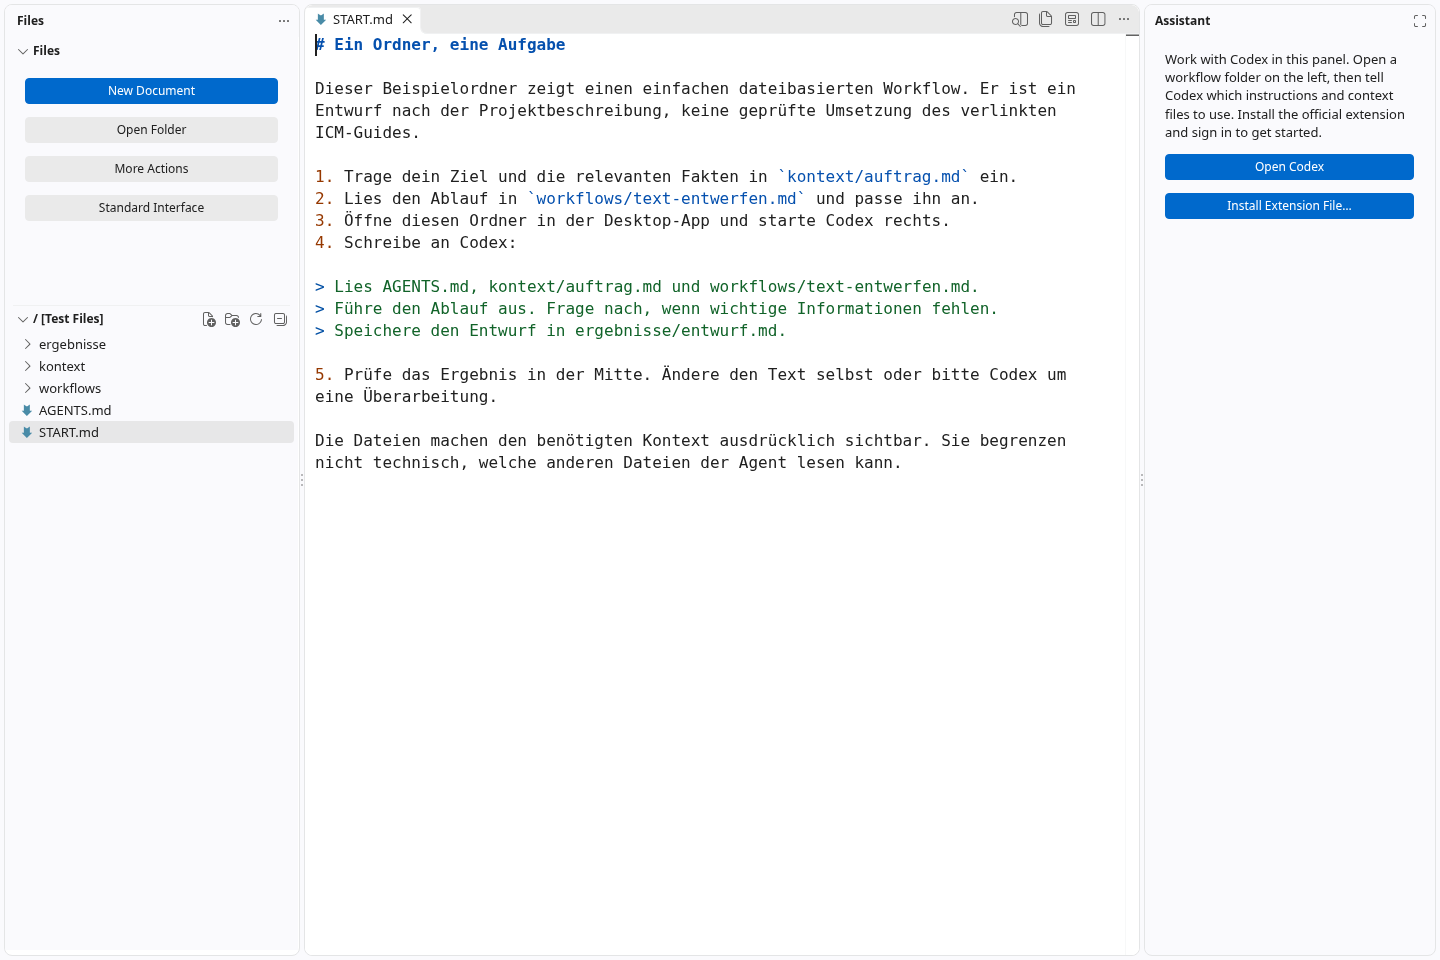
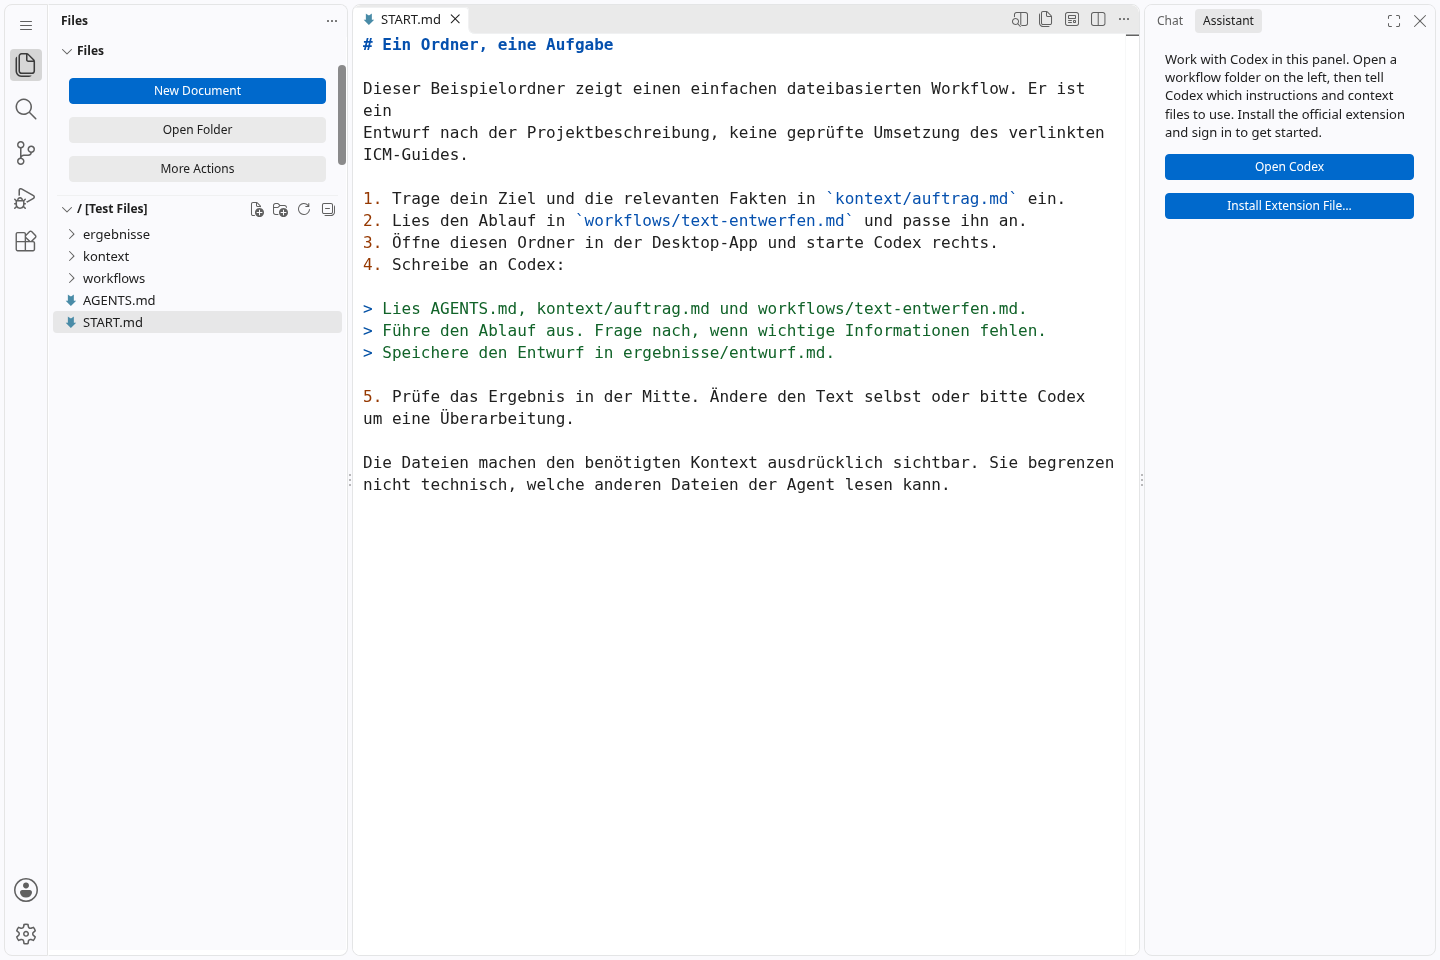
Open simple workspace by default and enable Open VSX extensions

diff --git a/src/vs/workbench/contrib/simpleUI/browser/simpleUI.contribution.ts b/src/vs/workbench/contrib/simpleUI/browser/simpleUI.contribution.ts
@@ -47,7 +47,7 @@ Registry.as<IConfigurationRegistry>(ConfigurationExtensions.Configuration).regis
 	type: 'object',
 	properties: {
 		[SIMPLE_UI_ENABLED]: {
-			type: 'boolean', default: false, scope: ConfigurationScope.APPLICATION,
+			type: 'boolean', default: true, scope: ConfigurationScope.APPLICATION,
 			description: localize('simpleUI.enabled.description', "Use a simplified workspace for documents, files, and an AI assistant. Turn off to restore your previous interface."),
 		},
 		[SIMPLE_UI_AGENT]: {
@@ -154,7 +154,7 @@ class SimpleUIContribution extends Disposable {
 	private updateWelcome(): void {
 		this.welcome.clear();
 		// Welcome content uses the linked-text parser, not a full Markdown renderer.
-		const text = (value: string) => value.replace(/[\r\n]+/g, ' ').replace(/\[/g, '［').replace(/\]/g, '］');
+		const text = (value: string) => value.replace(/[\r\n]+/g, ' ').replace(/\[/g, '\uFF3B').replace(/\]/g, '\uFF3D');
 		const link = (label: SimpleUILabel, command: string) => {
 			const caption = text(simpleUILabel(this.configurationService, label));
 			// The welcome button also uses its tooltip as its accessible name.
@@ -166,7 +166,7 @@ class SimpleUIContribution extends Disposable {
 				link('newDocument', 'workbench.simpleUI.newDocument'),
 				link('openFolder', 'workbench.action.files.openFolder'),
 				link('more', 'workbench.simpleUI.more'),
-				link('standardUI', 'workbench.simpleUI.toggle'),
+				link('standardUI', 'workbench.simpleUI.standard'),
 			].join('\n'),
 			renderSecondaryButtons: true,
 		}));
@@ -307,14 +307,45 @@ registerAction2(class extends Action2 {
 registerAction2(class extends Action2 {
 	constructor() {
 		super({
+			id: 'workbench.simpleUI.simple', title: localize2('simpleUI.simple.action', "Simple Workspace"),
+			f1: true, icon: Codicon.layout, precondition: enabled.negate(),
+			menu: [
+				{ id: MenuId.TitleBar, when: enabled.negate(), group: 'navigation', order: 0 },
+				{ id: MenuId.GlobalActivity, when: enabled.negate(), group: '2_configuration', order: 0 },
+			],
+		});
+	}
+	async run(accessor: ServicesAccessor): Promise<void> {
+		await accessor.get(IConfigurationService).updateValue(SIMPLE_UI_ENABLED, true, ConfigurationTarget.USER);
+	}
+});
+
+registerAction2(class extends Action2 {
+	constructor() {
+		super({
 			id: 'workbench.simpleUI.toggle', title: localize2('simpleUI.toggle', "Toggle Simple Workspace"),
 			f1: true, icon: Codicon.layout, toggled: enabled,
-			menu: [{ id: MenuId.TitleBar, group: 'navigation', order: 0 }],
 		});
 	}
 	async run(accessor: ServicesAccessor): Promise<void> {
 		const configuration = accessor.get(IConfigurationService);
 		await configuration.updateValue(SIMPLE_UI_ENABLED, !configuration.getValue<boolean>(SIMPLE_UI_ENABLED), ConfigurationTarget.USER);
+	}
+});
+
+registerAction2(class extends Action2 {
+	constructor() {
+		super({
+			id: 'workbench.simpleUI.standard', title: localize2('simpleUI.standard.action', "Standard Interface"),
+			f1: true, icon: Codicon.layout, precondition: enabled,
+			menu: [
+				{ id: MenuId.TitleBar, when: enabled, group: 'navigation', order: 0 },
+				{ id: MenuId.GlobalActivity, when: enabled, group: '2_configuration', order: 0 },
+			],
+		});
+	}
+	async run(accessor: ServicesAccessor): Promise<void> {
+		await accessor.get(IConfigurationService).updateValue(SIMPLE_UI_ENABLED, false, ConfigurationTarget.USER);
 	}
 });
 
@@ -370,8 +401,8 @@ registerAction2(class extends Action2 {
 		}
 		await configuration.updateValue(SIMPLE_UI_AGENT, selected.id, ConfigurationTarget.USER);
 		if (!selected.installed) {
-			notifications.info(localize('simpleUI.installAgent', "Install the official {0} extension, then choose it here. You can install a publisher-provided VSIX from the Extensions menu.", selected.label));
-			await commands.executeCommand('workbench.extensions.search', `@id:${selected.id}`);
+			notifications.info(localize('simpleUI.installAgent', "Install the official {0} extension from Extensions, then choose it here. You can also install a publisher-provided VSIX file.", selected.label));
+			await commands.executeCommand('workbench.extensions.search', selected.label);
 		} else {
 			await commands.executeCommand('workbench.simpleUI.openAgent');
 		}
@@ -392,9 +423,9 @@ registerAction2(class extends Action2 {
 			['textEditor', 'workbench.simpleUI.textEditor'],
 			['chooseAgent', 'workbench.simpleUI.chooseAgent'],
 			['installExtension', 'workbench.extensions.action.installVSIX'],
-			['extensions', 'workbench.extensions.action.showInstalledExtensions'],
+			['extensions', 'workbench.view.extensions'],
 			['settings', 'workbench.action.openSettings'],
-			['standardUI', 'workbench.simpleUI.toggle'],
+			['standardUI', 'workbench.simpleUI.standard'],
 		];
 		const selected = await accessor.get(IQuickInputService).pick(actions.map(([label, command]) => ({ label: simpleUILabel(configuration, label), detail: simpleUIHint(label), command })), {
 			placeHolder: simpleUILabel(configuration, 'more'),

diff --git a/src/vs/workbench/contrib/simpleUI/browser/simpleUILabels.ts b/src/vs/workbench/contrib/simpleUI/browser/simpleUILabels.ts
@@ -45,9 +45,9 @@ const hints: Partial<Record<SimpleUILabel, string>> = {
 	preview: localize('simpleUI.hint.preview', "See formatted Markdown beside your text. The preview updates while you write."),
 	visualEditor: localize('simpleUI.hint.visualEditor', "Edit a saved Markdown document with formatting controls."),
 	textEditor: localize('simpleUI.hint.textEditor', "Edit the document as plain text, including its Markdown formatting marks."),
-	chooseAgent: localize('simpleUI.hint.chooseAgent', "Open the installed Codex extension in the right panel. Sign in inside the extension."),
+	chooseAgent: localize('simpleUI.hint.chooseAgent', "Find and install Codex from Extensions, or open it in the right panel after installation. Sign in inside the extension."),
 	installExtension: localize('simpleUI.hint.installExtension', "Select an official extension file (.vsix) downloaded from its publisher."),
-	extensions: localize('simpleUI.hint.extensions', "Manage installed extensions."),
+	extensions: localize('simpleUI.hint.extensions', "Browse and install extensions from Open VSX, or manage installed extensions."),
 	settings: localize('simpleUI.hint.settings', "Change appearance, labels, and other workspace preferences."),
 };
 

diff --git a/src/vs/workbench/contrib/simpleUI/test/common/simpleUI.test.ts b/src/vs/workbench/contrib/simpleUI/test/common/simpleUI.test.ts
@@ -35,13 +35,15 @@ suite('Simple UI settings', () => {
 	test('restores temporary settings without losing user edits made while enabled', async () => {
 		const configuration = new ConfigurationService();
 		configuration.memory.set('editor.fontSize', 18);
+		configuration.memory.set('workbench.activityBar.location', 'hidden');
 		const settings = new SimpleUISettings(configuration);
 		await settings.enable();
 		assert.strictEqual(configuration.memory.get('editor.wordWrap'), 'on');
+		assert.strictEqual(configuration.memory.get('workbench.activityBar.location'), 'default');
 		configuration.user.set('editor.wordWrap', 'bounded');
 		await settings.disable();
 		assert.deepStrictEqual({ memory: [...configuration.memory], user: [...configuration.user] }, {
-			memory: [['editor.fontSize', 18]], user: [['editor.fontSize', 13], ['editor.wordWrap', 'bounded']],
+			memory: [['editor.fontSize', 18], ['workbench.activityBar.location', 'hidden']], user: [['editor.fontSize', 13], ['editor.wordWrap', 'bounded']],
 		});
 	});
 

diff --git a/build/hygiene.ts b/build/hygiene.ts
@@ -92,8 +92,9 @@ export function hygiene(some: NodeJS.ReadWriteStream | string[] | undefined, run
 	const productJson = es.through(function (file: VinylFile) {
 		const product = JSON.parse(file.contents!.toString('utf8'));
 
-		if (product.extensionsGallery) {
-			console.error(`product.json: Contains 'extensionsGallery'`);
+		// This Code - OSS fork uses the public Open VSX gallery. Keep other galleries out of product.json.
+		if (product.extensionsGallery && product.extensionsGallery.serviceUrl !== 'https://open-vsx.org/vscode/gallery') {
+			console.error(`product.json: Contains an unsupported 'extensionsGallery'`);
 			errorCount++;
 		}
 

diff --git a/src/vs/workbench/contrib/simpleUI/common/simpleUI.ts b/src/vs/workbench/contrib/simpleUI/common/simpleUI.ts
@@ -12,7 +12,7 @@ export const SIMPLE_UI_AGENT = 'workbench.simpleUI.agent';
 type SettingValue = string | number | boolean;
 
 const settings: Readonly<Record<string, SettingValue>> = {
-	'workbench.activityBar.location': 'hidden',
+	'workbench.activityBar.location': 'default',
 	'workbench.statusBar.visible': false,
 	'workbench.sideBar.location': 'left',
 	'workbench.layoutControl.enabled': false,

diff --git a/README.md b/README.md
@@ -9,13 +9,12 @@ Kontext in Ordnern und Markdown-Dateien.
 
 ## Was dieser erste Stand kann
 
-- Umschalten zwischen vollständiger Oberfläche und **Simple Workspace**.
+- **Simple Workspace** öffnet sich bei neuen Profilen automatisch. Über **Standard Interface** links, oben oder im Zahnradmenü wechselst du zurück; **Simple Workspace** bringt dich wieder in die einfache Ansicht.
 - Dateiverwaltung mit gut sichtbaren Aktionen und erklärenden Tooltips.
 - Texte und Markdown direkt bearbeiten; Live Preview und visuellen Markdown-Editor aufrufen.
-- Im einfachen Modus: keine Aktivitätsleiste, Statusleiste, Minimap, Zeilennummern oder
-  automatische Code-Vorschläge. Das untere Panel wird geschlossen; Outline und Timeline werden ausgeblendet.
+- Die Activity Bar links bleibt sichtbar: Explorer, Suche, Quellcodeverwaltung, Erweiterungen und Ansichten installierter Erweiterungen sind direkt erreichbar. Statusleiste, Minimap, Zeilennummern und automatische Code-Vorschläge werden ausgeblendet. Das untere Panel wird geschlossen; Outline und Timeline werden ausgeblendet.
 - Eine installierte offizielle Codex-Extension (`openai.chatgpt`) in das rechte Panel verschieben.
-  Ohne Extension erscheint eine Einführung mit Installation aus einer VSIX-Datei.
+  Ohne Extension erscheint eine Einführung mit Katalogsuche und Installation aus einer VSIX-Datei.
 - Beim Ausschalten die vorherige Anordnung wiederherstellen. Persönliche Editor-Einstellungen
   werden dabei nicht überschrieben.
 
@@ -30,15 +29,15 @@ ein aktueller Chrome/Chromium oder Edge und einige GB freier Speicher.
 ```sh
 git clone --depth 1 --branch main https://github.com/marmor69/vscode.git simple-workspace
 cd simple-workspace
-node scripts/simple-workspace.ts --setup
-node scripts/simple-workspace.ts --web
+node scripts/simple-workspace.mts --setup
+node scripts/simple-workspace.mts --web
 ```
 
 1. Öffne **http://localhost:8080**.
-2. Drücke **F1**, suche **Toggle Simple Workspace** und bestätige mit Enter.
-3. Öffne `START.md` links. Der mitgelieferte Beispielordner erklärt einen kleinen Workflow.
-4. Bearbeite einen Text; öffne **More Actions → Live Preview** für die Markdown-Vorschau.
-5. **Standard Interface** stellt die volle Oberfläche wieder her.
+2. Die einfache Ansicht erscheint automatisch. Öffne `START.md` links. Der mitgelieferte Beispielordner erklärt einen kleinen Workflow.
+3. Bearbeite einen Text; öffne **More Actions → Live Preview** für die Markdown-Vorschau.
+4. Über das Erweiterungssymbol links kannst du den Open-VSX-Katalog durchsuchen.
+5. **Standard Interface** links oder im Zahnradmenü stellt die volle Oberfläche wieder her.
 
 Das Setup installiert festgeschriebene JavaScript-Abhängigkeiten und baut die Web-Oberfläche
 samt den für diese Demo benötigten Erweiterungen. Es installiert weder Electron noch native Module.
@@ -66,19 +65,12 @@ Unter Windows lautet der letzte Aufruf `scripts\code.bat` mit denselben Argument
 Der erste Start lädt zusätzlich Electron und eingebaute Erweiterungen.
 Verwende für diesen Weg **nicht** die Installation mit `--ignore-scripts` aus dem Web-Setup.
 
-1. Aktiviere **Toggle Simple Workspace** über F1 oder setze
-   **Workbench › Simple UI: Enabled** in den Einstellungen.
-2. Besorge die offizielle Codex-VSIX über einen vom Herausgeber unterstützten Installationsweg;
-   siehe [Codex IDE-Dokumentation](https://developers.openai.com/codex/ide/).
-3. Wähle rechts **Install Extension File…**, installiere die Datei und lade bei Bedarf das Fenster neu.
-4. **Open Codex → Codex** öffnet die installierte Extension rechts. Melde dich dort an.
-5. Kopiere `examples/icm-starter` in deinen eigenen Arbeitsordner, öffne ihn über **Open Folder**
-   und folge `START.md`.
+1. Die einfache Ansicht ist beim ersten Start aktiv. Über **Standard Interface** im Zahnradmenü oder links kannst du jederzeit zur normalen Oberfläche wechseln.
+2. Öffne **Extensions** in der Activity Bar links und suche nach **Codex**. Prüfe den Herausgeber **OpenAI** und die Kennung `openai.chatgpt`, bevor du installierst.
+3. **Open Codex → Codex** öffnet die installierte Extension rechts. Melde dich dort an.
+4. Kopiere `examples/icm-starter` in deinen eigenen Arbeitsordner, öffne ihn über **Open Folder** und folge `START.md`.
 
-Code – OSS hat hier keine konfigurierte Extension-Galerie. Die offizielle Extension wird weder
-mitgeliefert noch durch einen eigenen Agenten ersetzt. Installation, Anmeldung und tatsächliche
-Codex-Ausführung im Desktop-Fork müssen noch auf den Zielsystemen überprüft werden.
-Die Extension bestimmt ihre eigenen Berechtigungen, Anmeldung und Kontovoraussetzungen.
+Der Fork nutzt [Open VSX](https://open-vsx.org/) als Erweiterungskatalog. Das ist **nicht** der Microsoft Visual Studio Marketplace; manche dort gelisteten Erweiterungen fehlen auf Open VSX. Die offizielle Codex-Erweiterung ist auf Open VSX unter `openai.chatgpt` gelistet. Falls eine Erweiterung dort fehlt, installiere eine vom Herausgeber bereitgestellte `.vsix` über **Install Extension File…**. Siehe auch die [Codex IDE-Dokumentation](https://developers.openai.com/codex/ide/). Die Extension wird nicht mitgeliefert. Anmeldung und tatsächliche Codex-Ausführung im Desktop-Fork müssen noch auf den Zielsystemen überprüft werden.
 
 ## Beschriftungen anpassen
 
@@ -119,7 +111,7 @@ Die Ordnerstruktur ist eine Arbeitskonvention, keine technische Einschränkung d
 
 Die Änderungen liegen überwiegend in einer eigenen
 [Workbench-Contribution](src/vs/workbench/contrib/simpleUI/README.md).
-Dazu kommen ein Import, ein kleiner Explorer-Titel-Hook und die Registrierung für Übersetzungen.
+Dazu kommen ein Import, ein kleiner Explorer-Titel-Hook, die Registrierung für Übersetzungen und die Open-VSX-Konfiguration in `product.json`. Der Web-Teststarter übernimmt diese Konfiguration in die lokale, ignorierte `product.overrides.json`.
 Editor, Dateiverwaltung, Markdown-Erweiterung und Extension-Host bleiben Upstream-Komponenten.
 Das hält den Fork klein und erleichtert die Übernahme neuer Upstream-Stände.
 
@@ -127,7 +119,8 @@ Das hält den Fork klein und erleichtert die Übernahme neuer Upstream-Stände.
 
 - Browser-Setup vollständig ausgeführt; Client-Build, TypeScript-Prüfung und gezieltes ESLint bestanden.
 - Vier Regressionstests zur Wiederherstellung der Einstellungen bestanden.
-- Dateibaum, Markdown-Textansicht, Neuladen im einfachen Modus und Rückkehr zur vollständigen Oberfläche im Chromium-Browser geprüft.
+- Automatischen Start, sichtbare Activity Bar, Dateibaum, Markdown-Textansicht, Neuladen und Umschalten im Chromium-Browser geprüft.
+- Open-VSX-Katalog und die Suche nach der Codex-Erweiterung von OpenAI im Browser geprüft.
 - Tooltips, neue Markdown-Dokumente und Texteingabe geprüft; beim Moduswechsel bleibt der Text erhalten.
 - Die Markdown-Vorschau wird geöffnet, ihr Inhalt konnte in der Cloud nicht geprüft werden:
   Der dortige Browser verweigert die Service-Worker-Registrierung der eingebauten Webview.

diff --git a/src/vs/workbench/contrib/simpleUI/README.md b/src/vs/workbench/contrib/simpleUI/README.md
@@ -1,8 +1,7 @@
 # Simple workspace contribution
 
 A reversible presentation layer for a document-first Code – OSS fork. Enable it with
-`workbench.simpleUI.enabled` or `workbench.simpleUI.toggle`. It defaults to off so an
-existing user's first launch retains their interface.
+`workbench.simpleUI.enabled` or `workbench.simpleUI.toggle`. It defaults to on for a new profile. A user setting of false still wins.
 
 ## Integration boundary
 
@@ -18,7 +17,7 @@ existing user's first launch retains their interface.
 The contribution uses existing layout, view, editor, configuration and extension services.
 It does not remove developer infrastructure or patch third-party extensions. Codex is
 identified by the publisher extension ID `openai.chatgpt`; its registered view container
-is moved into the auxiliary sidebar. Missing Codex gets a welcome view and VSIX install action.
+is moved into the auxiliary sidebar. Missing Codex gets a welcome view, an Open VSX catalog search, and a VSIX install action.
 
 Layout state is stored under the contribution's own workspace key
 `workbench.simpleUI.layout.v1` and survives window reloads. On leaving the mode, original
@@ -26,8 +25,7 @@ container locations, visible containers, panels and hidden Explorer views are re
 Editor preferences use a temporary memory layer. The setting itself is application scoped.
 
 Markdown preview and the visual editor reuse the built-in Markdown extension. The visual
-editor works with saved Markdown files. The standard interface remains available from
-Files and from the title bar / command palette. Welcome buttons use native hover behavior;
+editor works with saved Markdown files. The standard interface remains available from Files, the title bar, the Activity Bar settings menu, and the command palette. Welcome buttons use native hover behavior;
 the action picker also exposes explanations to keyboard users.
 
 ## Verification
@@ -45,7 +43,7 @@ For changes to service interactions, also run `npm run typecheck-client`.
 Manual acceptance: fresh profile; enable; open folder; create/edit/save Markdown; preview;
 hover explanations; reload while enabled; restore standard mode; re-enable; verify
 existing settings survive. Test desktop Codex installation, sign-in and a real task separately.
-Browser smoke checks cannot establish desktop extension compatibility.
+Browser smoke checks cannot establish desktop extension compatibility. The fork configures Open VSX in `product.json`; the browser demo copies that gallery setting into ignored `product.overrides.json`. Microsoft Visual Studio Marketplace is not bundled.
 
 ## Remaining product work
 
